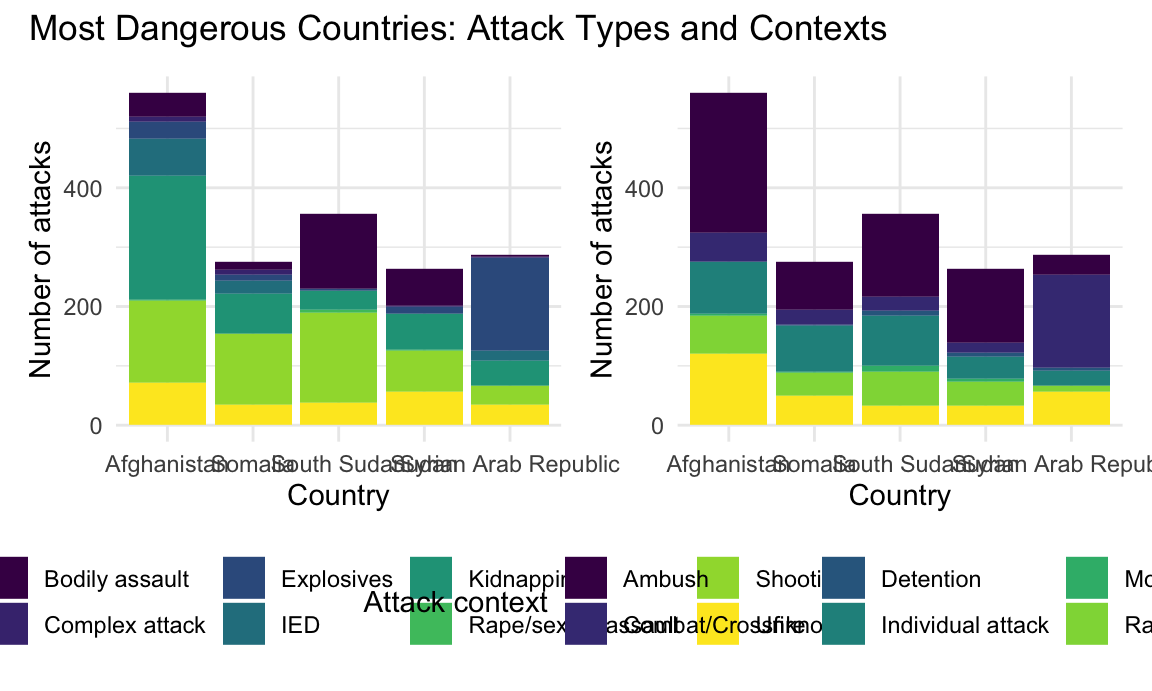
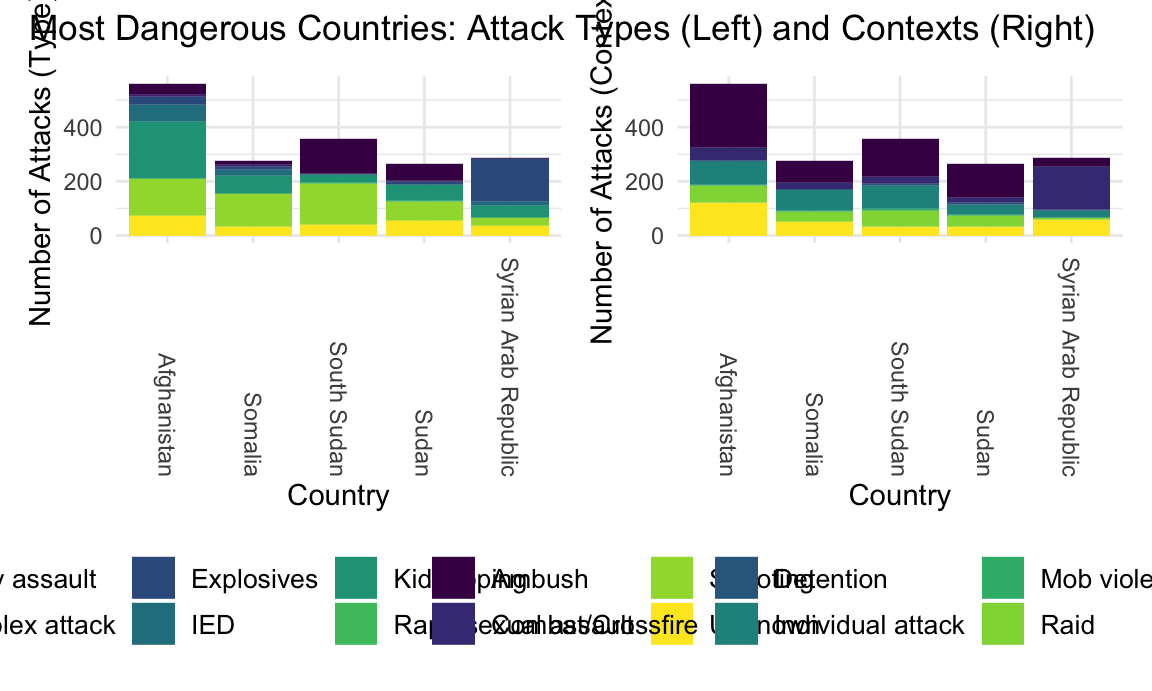
almost final exploratory

diff --git a/exploratory_analyses.html b/exploratory_analyses.html
@@ -498,8 +498,8 @@ aidworker_df =
           type = &quot;scatter&quot;, mode = &quot;markers&quot;)
   
 layout(plot_1, title = &quot;Aid Worker Attacks Over Time&quot;, xaxis = list(title = &quot;Year&quot;), yaxis = list(title = &quot;Number of Attack Incidents&quot;))</code></pre>
-<div id="htmlwidget-0383039ba77d615a21db" style="width:90%;height:345.6px;" class="plotly html-widget"></div>
-<script type="application/json" data-for="htmlwidget-0383039ba77d615a21db">{"x":{"visdat":{"4220435b1ee9":["function () ","plotlyVisDat"]},"cur_data":"4220435b1ee9","attrs":{"4220435b1ee9":{"x":{},"y":{},"text":{},"mode":"markers","alpha_stroke":1,"sizes":[10,100],"spans":[1,20],"type":"scatter"}},"layout":{"margin":{"b":40,"l":60,"t":25,"r":10},"title":"Aid Worker Attacks Over Time","xaxis":{"domain":[0,1],"automargin":true,"title":"Year"},"yaxis":{"domain":[0,1],"automargin":true,"title":"Number of Attack Incidents"},"hovermode":"closest","showlegend":false},"source":"A","config":{"showSendToCloud":false},"data":[{"x":[1997,1998,1999,2000,2001,2002,2003,2004,2005,2006,2007,2008,2009,2010,2011,2012,2013,2014,2015,2016,2017,2018,2019,2020],"y":[34,25,31,41,28,46,62,63,74,107,124,165,155,130,152,170,265,192,149,163,158,228,277,157],"text":["Total Victims: 73<br />International Staff: 29<br />National Staff: 44","Total Victims: 62<br />International Staff: 21<br />National Staff: 41","Total Victims: 66<br />International Staff: 24<br />National Staff: 42","Total Victims: 87<br />International Staff: 20<br />National Staff: 67","Total Victims: 86<br />International Staff: 26<br />National Staff: 60","Total Victims: 85<br />International Staff: 17<br />National Staff: 68","Total Victims: 142<br />International Staff: 25<br />National Staff: 117","Total Victims: 125<br />International Staff: 24<br />National Staff: 101","Total Victims: 172<br />International Staff: 14<br />National Staff: 158","Total Victims: 240<br />International Staff: 26<br />National Staff: 214","Total Victims: 221<br />International Staff: 35<br />National Staff: 186","Total Victims: 278<br />International Staff: 51<br />National Staff: 227","Total Victims: 295<br />International Staff: 74<br />National Staff: 221","Total Victims: 250<br />International Staff: 41<br />National Staff: 209","Total Victims: 311<br />International Staff: 29<br />National Staff: 282","Total Victims: 277<br />International Staff: 49<br />National Staff: 228","Total Victims: 475<br />International Staff: 60<br />National Staff: 415","Total Victims: 332<br />International Staff: 32<br />National Staff: 300","Total Victims: 289<br />International Staff: 29<br />National Staff: 260","Total Victims: 295<br />International Staff: 43<br />National Staff: 252","Total Victims: 313<br />International Staff: 28<br />National Staff: 285","Total Victims: 408<br />International Staff: 29<br />National Staff: 379","Total Victims: 483<br />International Staff: 27<br />National Staff: 456","Total Victims: 281<br />International Staff: 17<br />National Staff: 264"],"mode":"markers","type":"scatter","marker":{"color":"rgba(31,119,180,1)","line":{"color":"rgba(31,119,180,1)"}},"error_y":{"color":"rgba(31,119,180,1)"},"error_x":{"color":"rgba(31,119,180,1)"},"line":{"color":"rgba(31,119,180,1)"},"xaxis":"x","yaxis":"y","frame":null}],"highlight":{"on":"plotly_click","persistent":false,"dynamic":false,"selectize":false,"opacityDim":0.2,"selected":{"opacity":1},"debounce":0},"shinyEvents":["plotly_hover","plotly_click","plotly_selected","plotly_relayout","plotly_brushed","plotly_brushing","plotly_clickannotation","plotly_doubleclick","plotly_deselect","plotly_afterplot","plotly_sunburstclick"],"base_url":"https://plot.ly"},"evals":[],"jsHooks":[]}</script>
+<div id="htmlwidget-07a3664306ce605d6b9f" style="width:90%;height:345.6px;" class="plotly html-widget"></div>
+<script type="application/json" data-for="htmlwidget-07a3664306ce605d6b9f">{"x":{"visdat":{"4433292548e8":["function () ","plotlyVisDat"]},"cur_data":"4433292548e8","attrs":{"4433292548e8":{"x":{},"y":{},"text":{},"mode":"markers","alpha_stroke":1,"sizes":[10,100],"spans":[1,20],"type":"scatter"}},"layout":{"margin":{"b":40,"l":60,"t":25,"r":10},"title":"Aid Worker Attacks Over Time","xaxis":{"domain":[0,1],"automargin":true,"title":"Year"},"yaxis":{"domain":[0,1],"automargin":true,"title":"Number of Attack Incidents"},"hovermode":"closest","showlegend":false},"source":"A","config":{"showSendToCloud":false},"data":[{"x":[1997,1998,1999,2000,2001,2002,2003,2004,2005,2006,2007,2008,2009,2010,2011,2012,2013,2014,2015,2016,2017,2018,2019,2020],"y":[34,25,31,41,28,46,62,63,74,107,124,165,155,130,152,170,265,192,149,163,158,228,277,157],"text":["Total Victims: 73<br />International Staff: 29<br />National Staff: 44","Total Victims: 62<br />International Staff: 21<br />National Staff: 41","Total Victims: 66<br />International Staff: 24<br />National Staff: 42","Total Victims: 87<br />International Staff: 20<br />National Staff: 67","Total Victims: 86<br />International Staff: 26<br />National Staff: 60","Total Victims: 85<br />International Staff: 17<br />National Staff: 68","Total Victims: 142<br />International Staff: 25<br />National Staff: 117","Total Victims: 125<br />International Staff: 24<br />National Staff: 101","Total Victims: 172<br />International Staff: 14<br />National Staff: 158","Total Victims: 240<br />International Staff: 26<br />National Staff: 214","Total Victims: 221<br />International Staff: 35<br />National Staff: 186","Total Victims: 278<br />International Staff: 51<br />National Staff: 227","Total Victims: 295<br />International Staff: 74<br />National Staff: 221","Total Victims: 250<br />International Staff: 41<br />National Staff: 209","Total Victims: 311<br />International Staff: 29<br />National Staff: 282","Total Victims: 277<br />International Staff: 49<br />National Staff: 228","Total Victims: 475<br />International Staff: 60<br />National Staff: 415","Total Victims: 332<br />International Staff: 32<br />National Staff: 300","Total Victims: 289<br />International Staff: 29<br />National Staff: 260","Total Victims: 295<br />International Staff: 43<br />National Staff: 252","Total Victims: 313<br />International Staff: 28<br />National Staff: 285","Total Victims: 408<br />International Staff: 29<br />National Staff: 379","Total Victims: 483<br />International Staff: 27<br />National Staff: 456","Total Victims: 281<br />International Staff: 17<br />National Staff: 264"],"mode":"markers","type":"scatter","marker":{"color":"rgba(31,119,180,1)","line":{"color":"rgba(31,119,180,1)"}},"error_y":{"color":"rgba(31,119,180,1)"},"error_x":{"color":"rgba(31,119,180,1)"},"line":{"color":"rgba(31,119,180,1)"},"xaxis":"x","yaxis":"y","frame":null}],"highlight":{"on":"plotly_click","persistent":false,"dynamic":false,"selectize":false,"opacityDim":0.2,"selected":{"opacity":1},"debounce":0},"shinyEvents":["plotly_hover","plotly_click","plotly_selected","plotly_relayout","plotly_brushed","plotly_brushing","plotly_clickannotation","plotly_doubleclick","plotly_deselect","plotly_afterplot","plotly_sunburstclick"],"base_url":"https://plot.ly"},"evals":[],"jsHooks":[]}</script>
 <p>This rise in aid worker attacks is disproportionately affecting national staff. The next two plots show rising national staff victims and the proportion of total victims who are national staff, while the proportion of international staff victims has decreased.</p>
 <pre class="r"><code>aidworker_df %&gt;% 
   drop_na(year) %&gt;% 
@@ -574,8 +574,8 @@ layout(plot_2,
        title = &quot;Top 50 Most Dangerous Countries for Aid Workers&quot;,
        xaxis = NULL,
        yaxis = list(title = &quot;Total Victims&quot;))</code></pre>
-<div id="htmlwidget-370a8ec36af54f1b657d" style="width:90%;height:345.6px;" class="plotly html-widget"></div>
-<script type="application/json" data-for="htmlwidget-370a8ec36af54f1b657d">{"x":{"visdat":{"422016078d7c":["function () ","plotlyVisDat"]},"cur_data":"422016078d7c","attrs":{"422016078d7c":{"x":{},"y":{},"text":{},"mode":"markers","alpha_stroke":1,"sizes":[10,100],"spans":[1,20],"type":"scatter"}},"layout":{"margin":{"b":100,"l":25,"t":50,"r":50,"pad":0},"title":"Top 50 Most Dangerous Countries for Aid Workers","yaxis":{"domain":[0,1],"automargin":true,"title":"Total Victims"},"xaxis":{"domain":[0,1],"automargin":true,"title":"country","type":"category","categoryorder":"array","categoryarray":["Azerbaijan","Congo","Eritrea","Madagascar","Mauritania","Thailand","Papua New Guinea","El Salvador","Guatemala","Turkey","Mozambique","Cote D'Ivoire","Guinea","Mexico","Senegal","Tanzania","Kosovo","Algeria","Myanmar","Colombia","Sierra Leone","Malawi","Rwanda","Jordan","Liberia","Burkina Faso","Bangladesh","Philippines","Tajikistan","Indonesia","Niger","Libyan Arab Jamahiriya","Cameroon","Haiti","Burundi","Chechnya","Chad","Angola","Ethiopia","Uganda","Occupied Palestinian Territories","Kenya","Sri Lanka","Mali","Nigeria","Yemen","Iraq","Central African Republic","Pakistan","DR Congo","Syrian Arab Republic","Sudan","Somalia","South Sudan","Afghanistan"]},"hovermode":"closest","showlegend":false},"source":"A","config":{"showSendToCloud":false},"data":[{"x":["Afghanistan","Algeria","Angola","Azerbaijan","Bangladesh","Burkina Faso","Burundi","Cameroon","Central African Republic","Chad","Chechnya","Colombia","Congo","Cote D'Ivoire","DR Congo","El Salvador","Eritrea","Ethiopia","Guatemala","Guinea","Haiti","Indonesia","Iraq","Jordan","Kenya","Kosovo","Liberia","Libyan Arab Jamahiriya","Madagascar","Malawi","Mali","Mauritania","Mexico","Mozambique","Myanmar","Niger","Nigeria","Occupied Palestinian Territories","Pakistan","Papua New Guinea","Philippines","Rwanda","Senegal","Sierra Leone","Somalia","South Sudan","Sri Lanka","Sudan","Syrian Arab Republic","Tajikistan","Tanzania","Thailand","Turkey","Uganda","Yemen"],"y":[1259,12,53,5,19,16,44,36,165,49,44,13,5,9,327,7,5,53,7,9,39,30,146,15,74,10,15,35,5,14,106,5,9,8,12,34,132,62,248,6,23,14,9,13,515,581,89,487,469,24,9,5,7,56,140],"text":["Total Victims: 1259<br />Rank: 1<br />International Staff: 131<br />National Staff: 1128","Total Victims: 12<br />Rank: 37<br />International Staff: 5<br />National Staff: 7","Total Victims: 53<br />Rank: 17<br />International Staff: 3<br />National Staff: 50","Total Victims: 5<br />Rank: 50<br />International Staff: 0<br />National Staff: 5","Total Victims: 19<br />Rank: 29<br />International Staff: 4<br />National Staff: 15","Total Victims: 16<br />Rank: 30<br />International Staff: 2<br />National Staff: 14","Total Victims: 44<br />Rank: 20<br />International Staff: 13<br />National Staff: 31","Total Victims: 36<br />Rank: 23<br />International Staff: 5<br />National Staff: 31","Total Victims: 165<br />Rank: 8<br />International Staff: 16<br />National Staff: 149","Total Victims: 49<br />Rank: 19<br />International Staff: 12<br />National Staff: 37","Total Victims: 44<br />Rank: 20<br />International Staff: 24<br />National Staff: 20","Total Victims: 13<br />Rank: 35<br />International Staff: 4<br />National Staff: 9","Total Victims: 5<br />Rank: 50<br />International Staff: 1<br />National Staff: 4","Total Victims: 9<br />Rank: 40<br />International Staff: 1<br />National Staff: 8","Total Victims: 327<br />Rank: 6<br />International Staff: 26<br />National Staff: 301","Total Victims: 7<br />Rank: 46<br />International Staff: 1<br />National Staff: 6","Total Victims: 5<br />Rank: 50<br />International Staff: 2<br />National Staff: 3","Total Victims: 53<br />Rank: 17<br />International Staff: 14<br />National Staff: 39","Total Victims: 7<br />Rank: 46<br />International Staff: 1<br />National Staff: 6","Total Victims: 9<br />Rank: 40<br />International Staff: 2<br />National Staff: 7","Total Victims: 39<br />Rank: 22<br />International Staff: 12<br />National Staff: 27","Total Victims: 30<br />Rank: 26<br />International Staff: 7<br />National Staff: 23","Total Victims: 146<br />Rank: 9<br />International Staff: 34<br />National Staff: 112","Total Victims: 15<br />Rank: 31<br />International Staff: 2<br />National Staff: 13","Total Victims: 74<br />Rank: 14<br />International Staff: 23<br />National Staff: 51","Total Victims: 10<br />Rank: 39<br />International Staff: 1<br />National Staff: 9","Total Victims: 15<br />Rank: 31<br />International Staff: 8<br />National Staff: 7","Total Victims: 35<br />Rank: 24<br />International Staff: 23<br />National Staff: 12","Total Victims: 5<br />Rank: 50<br />International Staff: 1<br />National Staff: 4","Total Victims: 14<br />Rank: 33<br />International Staff: 0<br />National Staff: 14","Total Victims: 106<br />Rank: 12<br />International Staff: 17<br />National Staff: 89","Total Victims: 5<br />Rank: 50<br />International Staff: 4<br />National Staff: 1","Total Victims: 9<br />Rank: 40<br />International Staff: 0<br />National Staff: 9","Total Victims: 8<br />Rank: 45<br />International Staff: 0<br />National Staff: 8","Total Victims: 12<br />Rank: 37<br />International Staff: 0<br />National Staff: 12","Total Victims: 34<br />Rank: 25<br />International Staff: 11<br />National Staff: 23","Total Victims: 132<br />Rank: 11<br />International Staff: 5<br />National Staff: 127","Total Victims: 62<br />Rank: 15<br />International Staff: 3<br />National Staff: 59","Total Victims: 248<br />Rank: 7<br />International Staff: 21<br />National Staff: 227","Total Victims: 6<br />Rank: 49<br />International Staff: 1<br />National Staff: 5","Total Victims: 23<br />Rank: 28<br />International Staff: 3<br />National Staff: 20","Total Victims: 14<br />Rank: 33<br />International Staff: 5<br />National Staff: 9","Total Victims: 9<br />Rank: 40<br />International Staff: 2<br />National Staff: 7","Total Victims: 13<br />Rank: 35<br />International Staff: 3<br />National Staff: 10","Total Victims: 515<br />Rank: 3<br />International Staff: 90<br />National Staff: 425","Total Victims: 581<br />Rank: 2<br />International Staff: 65<br />National Staff: 516","Total Victims: 89<br />Rank: 13<br />International Staff: 2<br />National Staff: 87","Total Victims: 487<br />Rank: 4<br />International Staff: 54<br />National Staff: 433","Total Victims: 469<br />Rank: 5<br />International Staff: 29<br />National Staff: 440","Total Victims: 24<br />Rank: 27<br />International Staff: 11<br />National Staff: 13","Total Victims: 9<br />Rank: 40<br />International Staff: 2<br />National Staff: 7","Total Victims: 5<br />Rank: 50<br />International Staff: 0<br />National Staff: 5","Total Victims: 7<br />Rank: 46<br />International Staff: 1<br />National Staff: 6","Total Victims: 56<br />Rank: 16<br />International Staff: 6<br />National Staff: 50","Total Victims: 140<br />Rank: 10<br />International Staff: 35<br />National Staff: 105"],"mode":"markers","type":"scatter","marker":{"color":"rgba(31,119,180,1)","line":{"color":"rgba(31,119,180,1)"}},"error_y":{"color":"rgba(31,119,180,1)"},"error_x":{"color":"rgba(31,119,180,1)"},"line":{"color":"rgba(31,119,180,1)"},"xaxis":"x","yaxis":"y","frame":null}],"highlight":{"on":"plotly_click","persistent":false,"dynamic":false,"selectize":false,"opacityDim":0.2,"selected":{"opacity":1},"debounce":0},"shinyEvents":["plotly_hover","plotly_click","plotly_selected","plotly_relayout","plotly_brushed","plotly_brushing","plotly_clickannotation","plotly_doubleclick","plotly_deselect","plotly_afterplot","plotly_sunburstclick"],"base_url":"https://plot.ly"},"evals":[],"jsHooks":[]}</script>
+<div id="htmlwidget-720e1a72b424c56c2d6a" style="width:90%;height:345.6px;" class="plotly html-widget"></div>
+<script type="application/json" data-for="htmlwidget-720e1a72b424c56c2d6a">{"x":{"visdat":{"44332e6fedbb":["function () ","plotlyVisDat"]},"cur_data":"44332e6fedbb","attrs":{"44332e6fedbb":{"x":{},"y":{},"text":{},"mode":"markers","alpha_stroke":1,"sizes":[10,100],"spans":[1,20],"type":"scatter"}},"layout":{"margin":{"b":100,"l":25,"t":50,"r":50,"pad":0},"title":"Top 50 Most Dangerous Countries for Aid Workers","yaxis":{"domain":[0,1],"automargin":true,"title":"Total Victims"},"xaxis":{"domain":[0,1],"automargin":true,"title":"country","type":"category","categoryorder":"array","categoryarray":["Azerbaijan","Congo","Eritrea","Madagascar","Mauritania","Thailand","Papua New Guinea","El Salvador","Guatemala","Turkey","Mozambique","Cote D'Ivoire","Guinea","Mexico","Senegal","Tanzania","Kosovo","Algeria","Myanmar","Colombia","Sierra Leone","Malawi","Rwanda","Jordan","Liberia","Burkina Faso","Bangladesh","Philippines","Tajikistan","Indonesia","Niger","Libyan Arab Jamahiriya","Cameroon","Haiti","Burundi","Chechnya","Chad","Angola","Ethiopia","Uganda","Occupied Palestinian Territories","Kenya","Sri Lanka","Mali","Nigeria","Yemen","Iraq","Central African Republic","Pakistan","DR Congo","Syrian Arab Republic","Sudan","Somalia","South Sudan","Afghanistan"]},"hovermode":"closest","showlegend":false},"source":"A","config":{"showSendToCloud":false},"data":[{"x":["Afghanistan","Algeria","Angola","Azerbaijan","Bangladesh","Burkina Faso","Burundi","Cameroon","Central African Republic","Chad","Chechnya","Colombia","Congo","Cote D'Ivoire","DR Congo","El Salvador","Eritrea","Ethiopia","Guatemala","Guinea","Haiti","Indonesia","Iraq","Jordan","Kenya","Kosovo","Liberia","Libyan Arab Jamahiriya","Madagascar","Malawi","Mali","Mauritania","Mexico","Mozambique","Myanmar","Niger","Nigeria","Occupied Palestinian Territories","Pakistan","Papua New Guinea","Philippines","Rwanda","Senegal","Sierra Leone","Somalia","South Sudan","Sri Lanka","Sudan","Syrian Arab Republic","Tajikistan","Tanzania","Thailand","Turkey","Uganda","Yemen"],"y":[1259,12,53,5,19,16,44,36,165,49,44,13,5,9,327,7,5,53,7,9,39,30,146,15,74,10,15,35,5,14,106,5,9,8,12,34,132,62,248,6,23,14,9,13,515,581,89,487,469,24,9,5,7,56,140],"text":["Total Victims: 1259<br />Rank: 1<br />International Staff: 131<br />National Staff: 1128","Total Victims: 12<br />Rank: 37<br />International Staff: 5<br />National Staff: 7","Total Victims: 53<br />Rank: 17<br />International Staff: 3<br />National Staff: 50","Total Victims: 5<br />Rank: 50<br />International Staff: 0<br />National Staff: 5","Total Victims: 19<br />Rank: 29<br />International Staff: 4<br />National Staff: 15","Total Victims: 16<br />Rank: 30<br />International Staff: 2<br />National Staff: 14","Total Victims: 44<br />Rank: 20<br />International Staff: 13<br />National Staff: 31","Total Victims: 36<br />Rank: 23<br />International Staff: 5<br />National Staff: 31","Total Victims: 165<br />Rank: 8<br />International Staff: 16<br />National Staff: 149","Total Victims: 49<br />Rank: 19<br />International Staff: 12<br />National Staff: 37","Total Victims: 44<br />Rank: 20<br />International Staff: 24<br />National Staff: 20","Total Victims: 13<br />Rank: 35<br />International Staff: 4<br />National Staff: 9","Total Victims: 5<br />Rank: 50<br />International Staff: 1<br />National Staff: 4","Total Victims: 9<br />Rank: 40<br />International Staff: 1<br />National Staff: 8","Total Victims: 327<br />Rank: 6<br />International Staff: 26<br />National Staff: 301","Total Victims: 7<br />Rank: 46<br />International Staff: 1<br />National Staff: 6","Total Victims: 5<br />Rank: 50<br />International Staff: 2<br />National Staff: 3","Total Victims: 53<br />Rank: 17<br />International Staff: 14<br />National Staff: 39","Total Victims: 7<br />Rank: 46<br />International Staff: 1<br />National Staff: 6","Total Victims: 9<br />Rank: 40<br />International Staff: 2<br />National Staff: 7","Total Victims: 39<br />Rank: 22<br />International Staff: 12<br />National Staff: 27","Total Victims: 30<br />Rank: 26<br />International Staff: 7<br />National Staff: 23","Total Victims: 146<br />Rank: 9<br />International Staff: 34<br />National Staff: 112","Total Victims: 15<br />Rank: 31<br />International Staff: 2<br />National Staff: 13","Total Victims: 74<br />Rank: 14<br />International Staff: 23<br />National Staff: 51","Total Victims: 10<br />Rank: 39<br />International Staff: 1<br />National Staff: 9","Total Victims: 15<br />Rank: 31<br />International Staff: 8<br />National Staff: 7","Total Victims: 35<br />Rank: 24<br />International Staff: 23<br />National Staff: 12","Total Victims: 5<br />Rank: 50<br />International Staff: 1<br />National Staff: 4","Total Victims: 14<br />Rank: 33<br />International Staff: 0<br />National Staff: 14","Total Victims: 106<br />Rank: 12<br />International Staff: 17<br />National Staff: 89","Total Victims: 5<br />Rank: 50<br />International Staff: 4<br />National Staff: 1","Total Victims: 9<br />Rank: 40<br />International Staff: 0<br />National Staff: 9","Total Victims: 8<br />Rank: 45<br />International Staff: 0<br />National Staff: 8","Total Victims: 12<br />Rank: 37<br />International Staff: 0<br />National Staff: 12","Total Victims: 34<br />Rank: 25<br />International Staff: 11<br />National Staff: 23","Total Victims: 132<br />Rank: 11<br />International Staff: 5<br />National Staff: 127","Total Victims: 62<br />Rank: 15<br />International Staff: 3<br />National Staff: 59","Total Victims: 248<br />Rank: 7<br />International Staff: 21<br />National Staff: 227","Total Victims: 6<br />Rank: 49<br />International Staff: 1<br />National Staff: 5","Total Victims: 23<br />Rank: 28<br />International Staff: 3<br />National Staff: 20","Total Victims: 14<br />Rank: 33<br />International Staff: 5<br />National Staff: 9","Total Victims: 9<br />Rank: 40<br />International Staff: 2<br />National Staff: 7","Total Victims: 13<br />Rank: 35<br />International Staff: 3<br />National Staff: 10","Total Victims: 515<br />Rank: 3<br />International Staff: 90<br />National Staff: 425","Total Victims: 581<br />Rank: 2<br />International Staff: 65<br />National Staff: 516","Total Victims: 89<br />Rank: 13<br />International Staff: 2<br />National Staff: 87","Total Victims: 487<br />Rank: 4<br />International Staff: 54<br />National Staff: 433","Total Victims: 469<br />Rank: 5<br />International Staff: 29<br />National Staff: 440","Total Victims: 24<br />Rank: 27<br />International Staff: 11<br />National Staff: 13","Total Victims: 9<br />Rank: 40<br />International Staff: 2<br />National Staff: 7","Total Victims: 5<br />Rank: 50<br />International Staff: 0<br />National Staff: 5","Total Victims: 7<br />Rank: 46<br />International Staff: 1<br />National Staff: 6","Total Victims: 56<br />Rank: 16<br />International Staff: 6<br />National Staff: 50","Total Victims: 140<br />Rank: 10<br />International Staff: 35<br />National Staff: 105"],"mode":"markers","type":"scatter","marker":{"color":"rgba(31,119,180,1)","line":{"color":"rgba(31,119,180,1)"}},"error_y":{"color":"rgba(31,119,180,1)"},"error_x":{"color":"rgba(31,119,180,1)"},"line":{"color":"rgba(31,119,180,1)"},"xaxis":"x","yaxis":"y","frame":null}],"highlight":{"on":"plotly_click","persistent":false,"dynamic":false,"selectize":false,"opacityDim":0.2,"selected":{"opacity":1},"debounce":0},"shinyEvents":["plotly_hover","plotly_click","plotly_selected","plotly_relayout","plotly_brushed","plotly_brushing","plotly_clickannotation","plotly_doubleclick","plotly_deselect","plotly_afterplot","plotly_sunburstclick"],"base_url":"https://plot.ly"},"evals":[],"jsHooks":[]}</script>
 <p>The next two plots look at the top 10 countries for national staff victims and international staff victims: demonstrating the proportion of victims who were wounded, kidnapped, and killed.</p>
 <pre class="r"><code>danger_countries_df = 
   aidworker_df %&gt;%
@@ -808,7 +808,7 @@ aidworker_df %&gt;%
 </tr>
 </tbody>
 </table>
-<p>Finally, this plot shows victims of the top 5 most dangerous countries over time. Context for the spike in attacks in Afghanistan in 2013 are discussed in the accompanying case study.</p>
+<p>Finally, this plot shows victims of the top 5 most dangerous countries over time. Context for the spike in attacks in Afghanistan in 2013 are discussed in the accompanying case study. A rise in attacks in Syria corresponds to the start of the Syrian Civil War in 2011.</p>
 <pre class="r"><code>danger_countries_df = 
   aidworker_df %&gt;%
   group_by(country) %&gt;% 
@@ -857,7 +857,7 @@ aidworker_df %&gt;%
   mutate(rank = min_rank(desc(tot_attacks))) %&gt;% 
   filter(rank &lt; 6)
 
-plot_type = 
+  plot_type = 
   aidworker_df %&gt;%
   filter(country %in% c(&quot;Afghanistan&quot;, &quot;Somalia&quot;, &quot;South Sudan&quot;, &quot;Sudan&quot;,
                         &quot;Syrian Arab Republic&quot;)) %&gt;% 
@@ -868,11 +868,10 @@ plot_type =
   ggplot(aes(x = country, y = attacks, fill = attack_abr)) + 
   geom_bar(stat=&quot;identity&quot;) + 
   labs(x = &quot;Country&quot;,
-       y = &quot;Number of attacks&quot;) + 
-  viridis::scale_fill_viridis(
-    name = &quot;Attack type&quot;,
-    discrete = TRUE
-  )
+       y = &quot;Number of Attacks (Type)&quot;) + 
+  theme(axis.text.x = element_text(angle = -90, vjust = 0.5, hjust=1)) + 
+  theme(legend.text=element_text(size=10)) + 
+  theme(legend.title = element_blank())
 
 plot_context = 
   aidworker_df %&gt;%
@@ -885,14 +884,13 @@ plot_context =
   ggplot(aes(x = country, y = attacks, fill = attack_context)) + 
   geom_bar(stat=&quot;identity&quot;) + 
   labs(x = &quot;Country&quot;,
-       y = &quot;Number of attacks&quot;) + 
-  viridis::scale_fill_viridis(
-    name = &quot;Attack context&quot;,
-    discrete = TRUE
-  )
+       y = &quot;Number of Attacks (Context)&quot;) + 
+  theme(axis.text.x = element_text(angle = -90, vjust = 0.5, hjust=1)) +
+  theme(legend.text=element_text(size=10)) + 
+  theme(legend.title = element_blank())
 
 plot_type + plot_context + 
-plot_annotation(title = &quot;Most Dangerous Countries: Attack Types and Contexts&quot;)</code></pre>
+plot_annotation(title = &quot;Most Dangerous Countries: Attack Types (Left) and Contexts (Right)&quot;)</code></pre>
 <p><img src="exploratory_analyses_files/figure-html/unnamed-chunk-12-1.png" width="90%" /></p>
 <p>Afghanistan experienced the greatest proportion of attacks by kidnapping or IEDs, while bodily assault was most common in South Sudan, and explosives (including all bombing, shelling, and aerial bombardment) were most common in Syria.</p>
 <p>Ambushing, individual attacks, and raids were common in all danger countries. Aid workers in Syria experienced a large number of attacks by combat or crossfire: although the AWSD notes this does not exclude intentional targeting of humanitarian locations by combatants. Intentional targeting of health facilities in particular by Russian and Syrian airstrikes has been well documented. (via <a href="https://tcf.org/content/report/un-made-list-hospitals-syria-now-theyre-bombed/?agreed=1">The Century Foundation</a>)</p>
